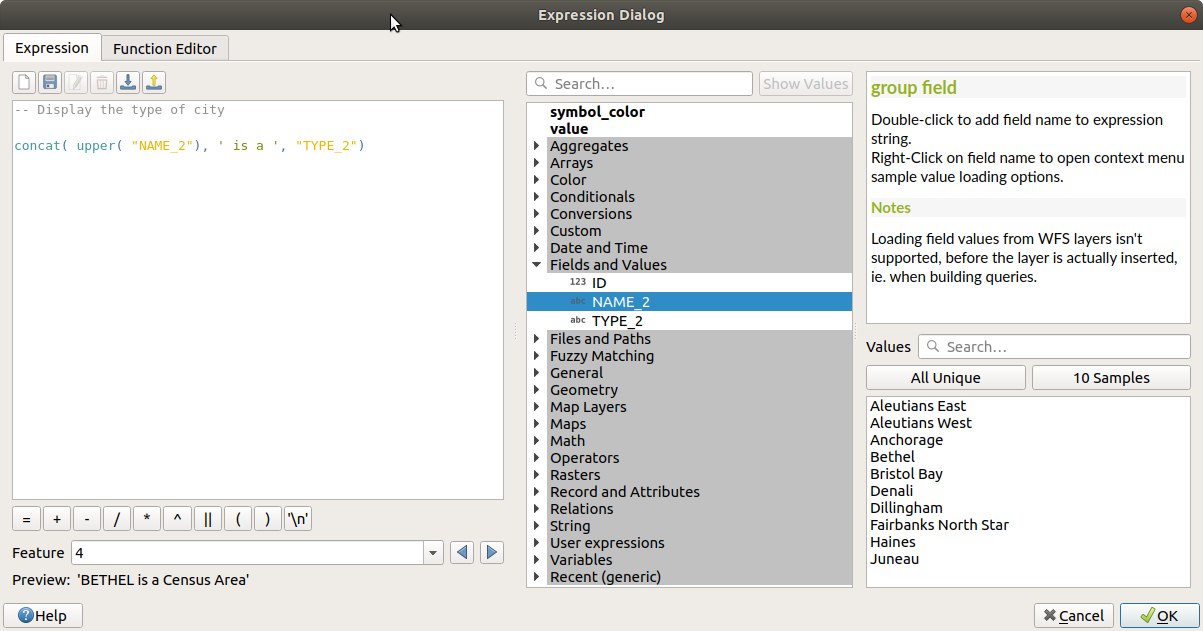
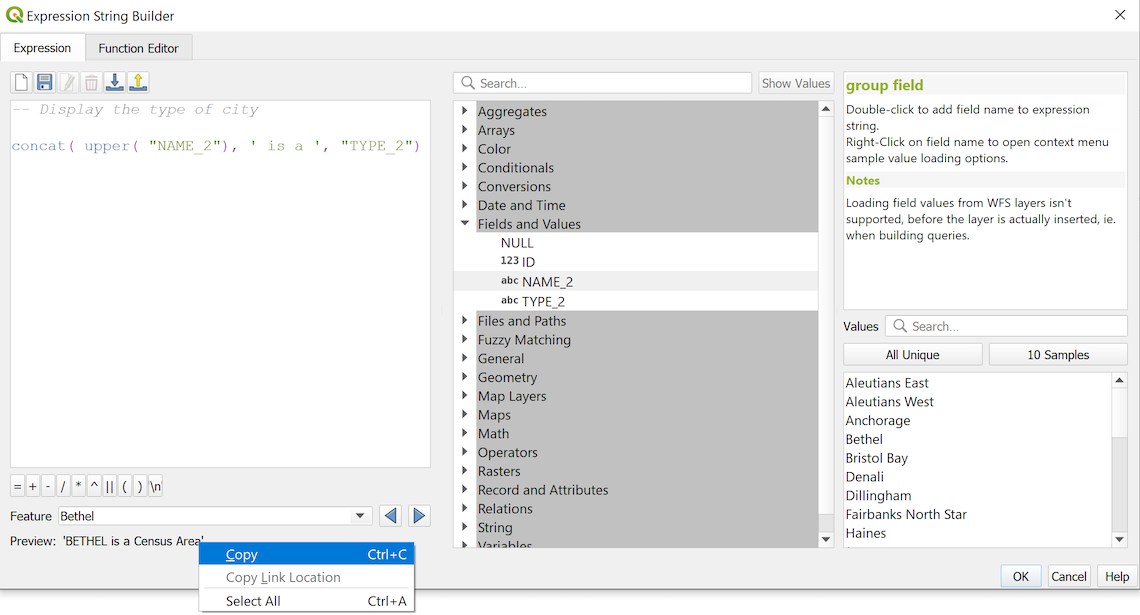
updated field calculator documentation as per fix #46160 (2)
Documentation for QGIS feature introduced here: qgis/QGIS#47680
Documentation issue fixes #7415

Within user_manual > expressions > img folder:

Updated function_list.png to show right-click copy ability of preview

Within user_manual > working_with_vector > img folder:
Removed fieldcalculator_preview_right_click_copy.png
Updated fieldcalculator.png to show right-click copy ability of preview

Within user_manual > working_with_vector > attribute_table.rst:
Updated Steps under Using the Field Calculator to reflect the updated fieldcalculator.png screenshot ( including adding detail under Step 7 of Using the Field Calculator, noting that a preview of output shows up below the expression box when inserting expressions into it.)
Removed fieldcalculator_preview_right_click_copy.png, and a caption, underneath the aforementioned paragraph

Within user_manual > expressions > expression.rst:
Added detail under The Interface, explaining that expression output preview text is shown under the Expression Dialog expression box (up to 60 characters), that over 60 characters you can hover your cursor over the text to display the entire preview text, and that you can right-click on the text to copy the entire preview text onto your clipboard.

All changes done under updated-field-calculator-documentation-fix-#46160 branch

Let me know if you have any questions!

Changed region(s): [[0.0, 0.0, 1.0, 1.0], [0.0, 0.2163, 0.3684, 0.2472], [0.0, 0.9577, 0.1535, 1.0]]

diff --git a/docs/user_manual/working_with_vector/attribute_table.rst b/docs/user_manual/working_with_vector/attribute_table.rst
@@ -551,34 +551,23 @@ A short example illustrates how field calculator works when using the
 :guilabel:`Expression` tab. We want to calculate the length in km of the
 ``railroads`` layer from the QGIS sample dataset:
 
-#. Load the shapefile :file:`railroads.shp` in QGIS and press |openTable|
+#. Load the shapefile :file:`airports.shp` in QGIS and press |openTable|
    :sup:`Open Attribute Table`.
 #. Click on |toggleEditing| :sup:`Toggle editing mode` and open the
    |calculateField| :sup:`Field Calculator` dialog.
 #. Select the |checkbox| :guilabel:`Create a new field` checkbox to save the
    calculations into a new field.
-#. Set :guilabel:`Output field name` to  ``length_km``
+#. Set :guilabel:`Output field name` to  ``elev_ft``
 #. Select ``Decimal number (real)`` as :guilabel:`Output field type`
 #. Set the :guilabel:`Output field length` to ``10`` and the :guilabel:`Precision`
    to ``3``
-#. Double click on ``$length`` in the :guilabel:`Geometry` group to add the length
-   of the geometry into the Field calculator expression box.
-#. Complete the expression by typing ``/ 1000`` in the Field calculator
+#. Double click on ``$ELEV`` in the :guilabel:`Fields and Values` group to add the elevation values
+   of the shapefile into the Field calculator expression box (you will begin to see
+   a preview of the output, up to 60 characters, below the expression box updating 
+   in real-time as the expression is assembled).
+#. Complete the expression by typing ``* 3.2808`` in the Field calculator
    expression box and click :guilabel:`OK`.
-#. You can now find a new :guilabel:`length_km` field in the attribute table.
-
-Note that underneath the expression box, expression output preview text (up to 60 
-characters) is shown in real-time as the expression is assembled. To view expression 
-output preview text that exceeds 60 characters, you can hover your cursor over the 
-text to display a tooltip pop-up containing the entire preview text. Furthermore, you 
-may also right-click on the text to copy the entire preview text onto your clipboard.
-
-.. _figure_field_calculator_preview_right_click_copy:
-
-.. figure:: img/fieldcalculator_preview_right_click_copy.png
-   :align: center
-
-   Expression output preview text capabilities within Field Calculator
+#. You can now find a new :guilabel:`elev_ft` field in the attribute table.
 
 .. _virtual_field:
 

diff --git a/docs/user_manual/expressions/expression.rst b/docs/user_manual/expressions/expression.rst
@@ -109,15 +109,19 @@ using functions, layer fields and values. It contains the following widgets:
 * Above the expression editor, a set of tools helps you:
 
   * |fileNew|:sup:`Clear the expression editor`
-  * create and manage :ref:`user expressions <user_expressions_functions>`
+  * Create and manage :ref:`user expressions <user_expressions_functions>`
 
 * Under the expression editor, you find:
 
-  * a set of basic operators to help you build the expression
-  * an indication of the expected format of output when you are data-defining
+  * A set of basic operators to help you build the expression
+  * An indication of the expected format of output when you are data-defining
     feature properties
-  * a live :guilabel:`Output preview` of the expression, evaluated
-    on the first feature of the Layer by default.
+  * A live :guilabel:`Output preview` of the expression (up to 60 characters), 
+    evaluated on the first feature of the Layer by default. To view output preview 
+    text exceeding 60 characters, you can hover your cursor over the text to display 
+    a tooltip pop-up containing the entire output preview. Furthermore, you may also 
+    right-click on the text to copy the entire output preview onto your clipboard. 
+    
     You can browse and evaluate other features of the layer using the
     :guilabel:`Feature` combobox (the values are taken from the
     :ref:`display name <maptips>` property of the layer).
